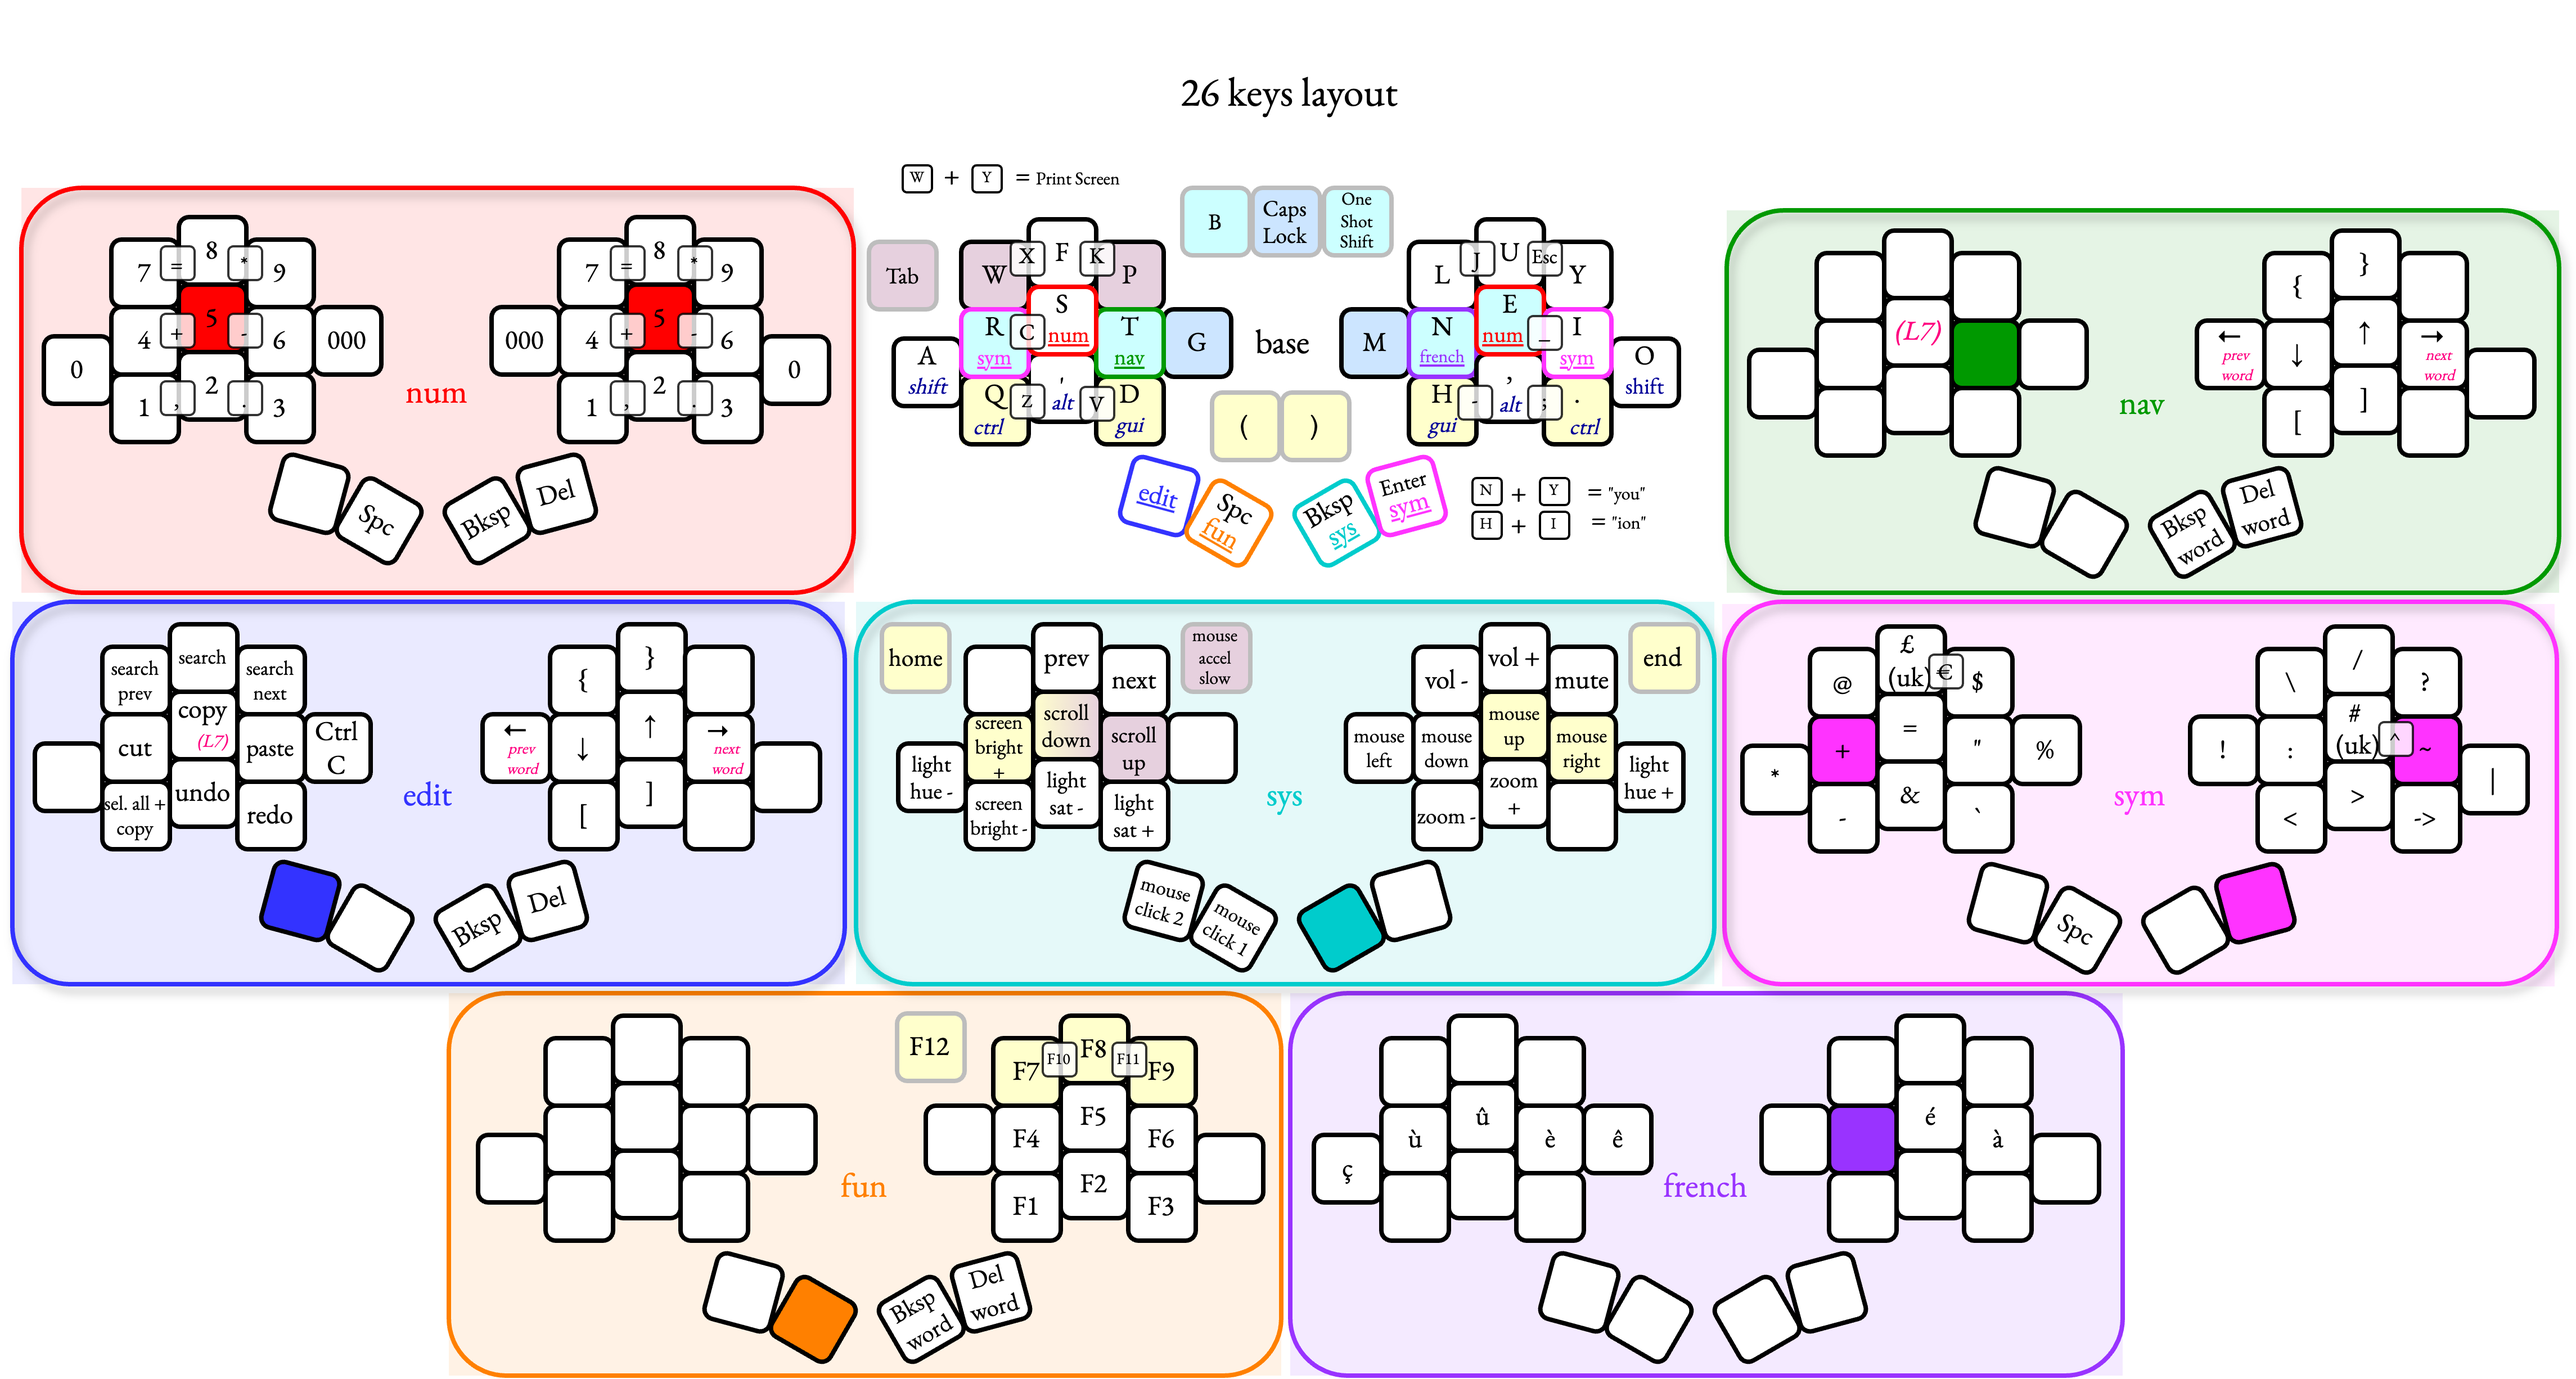
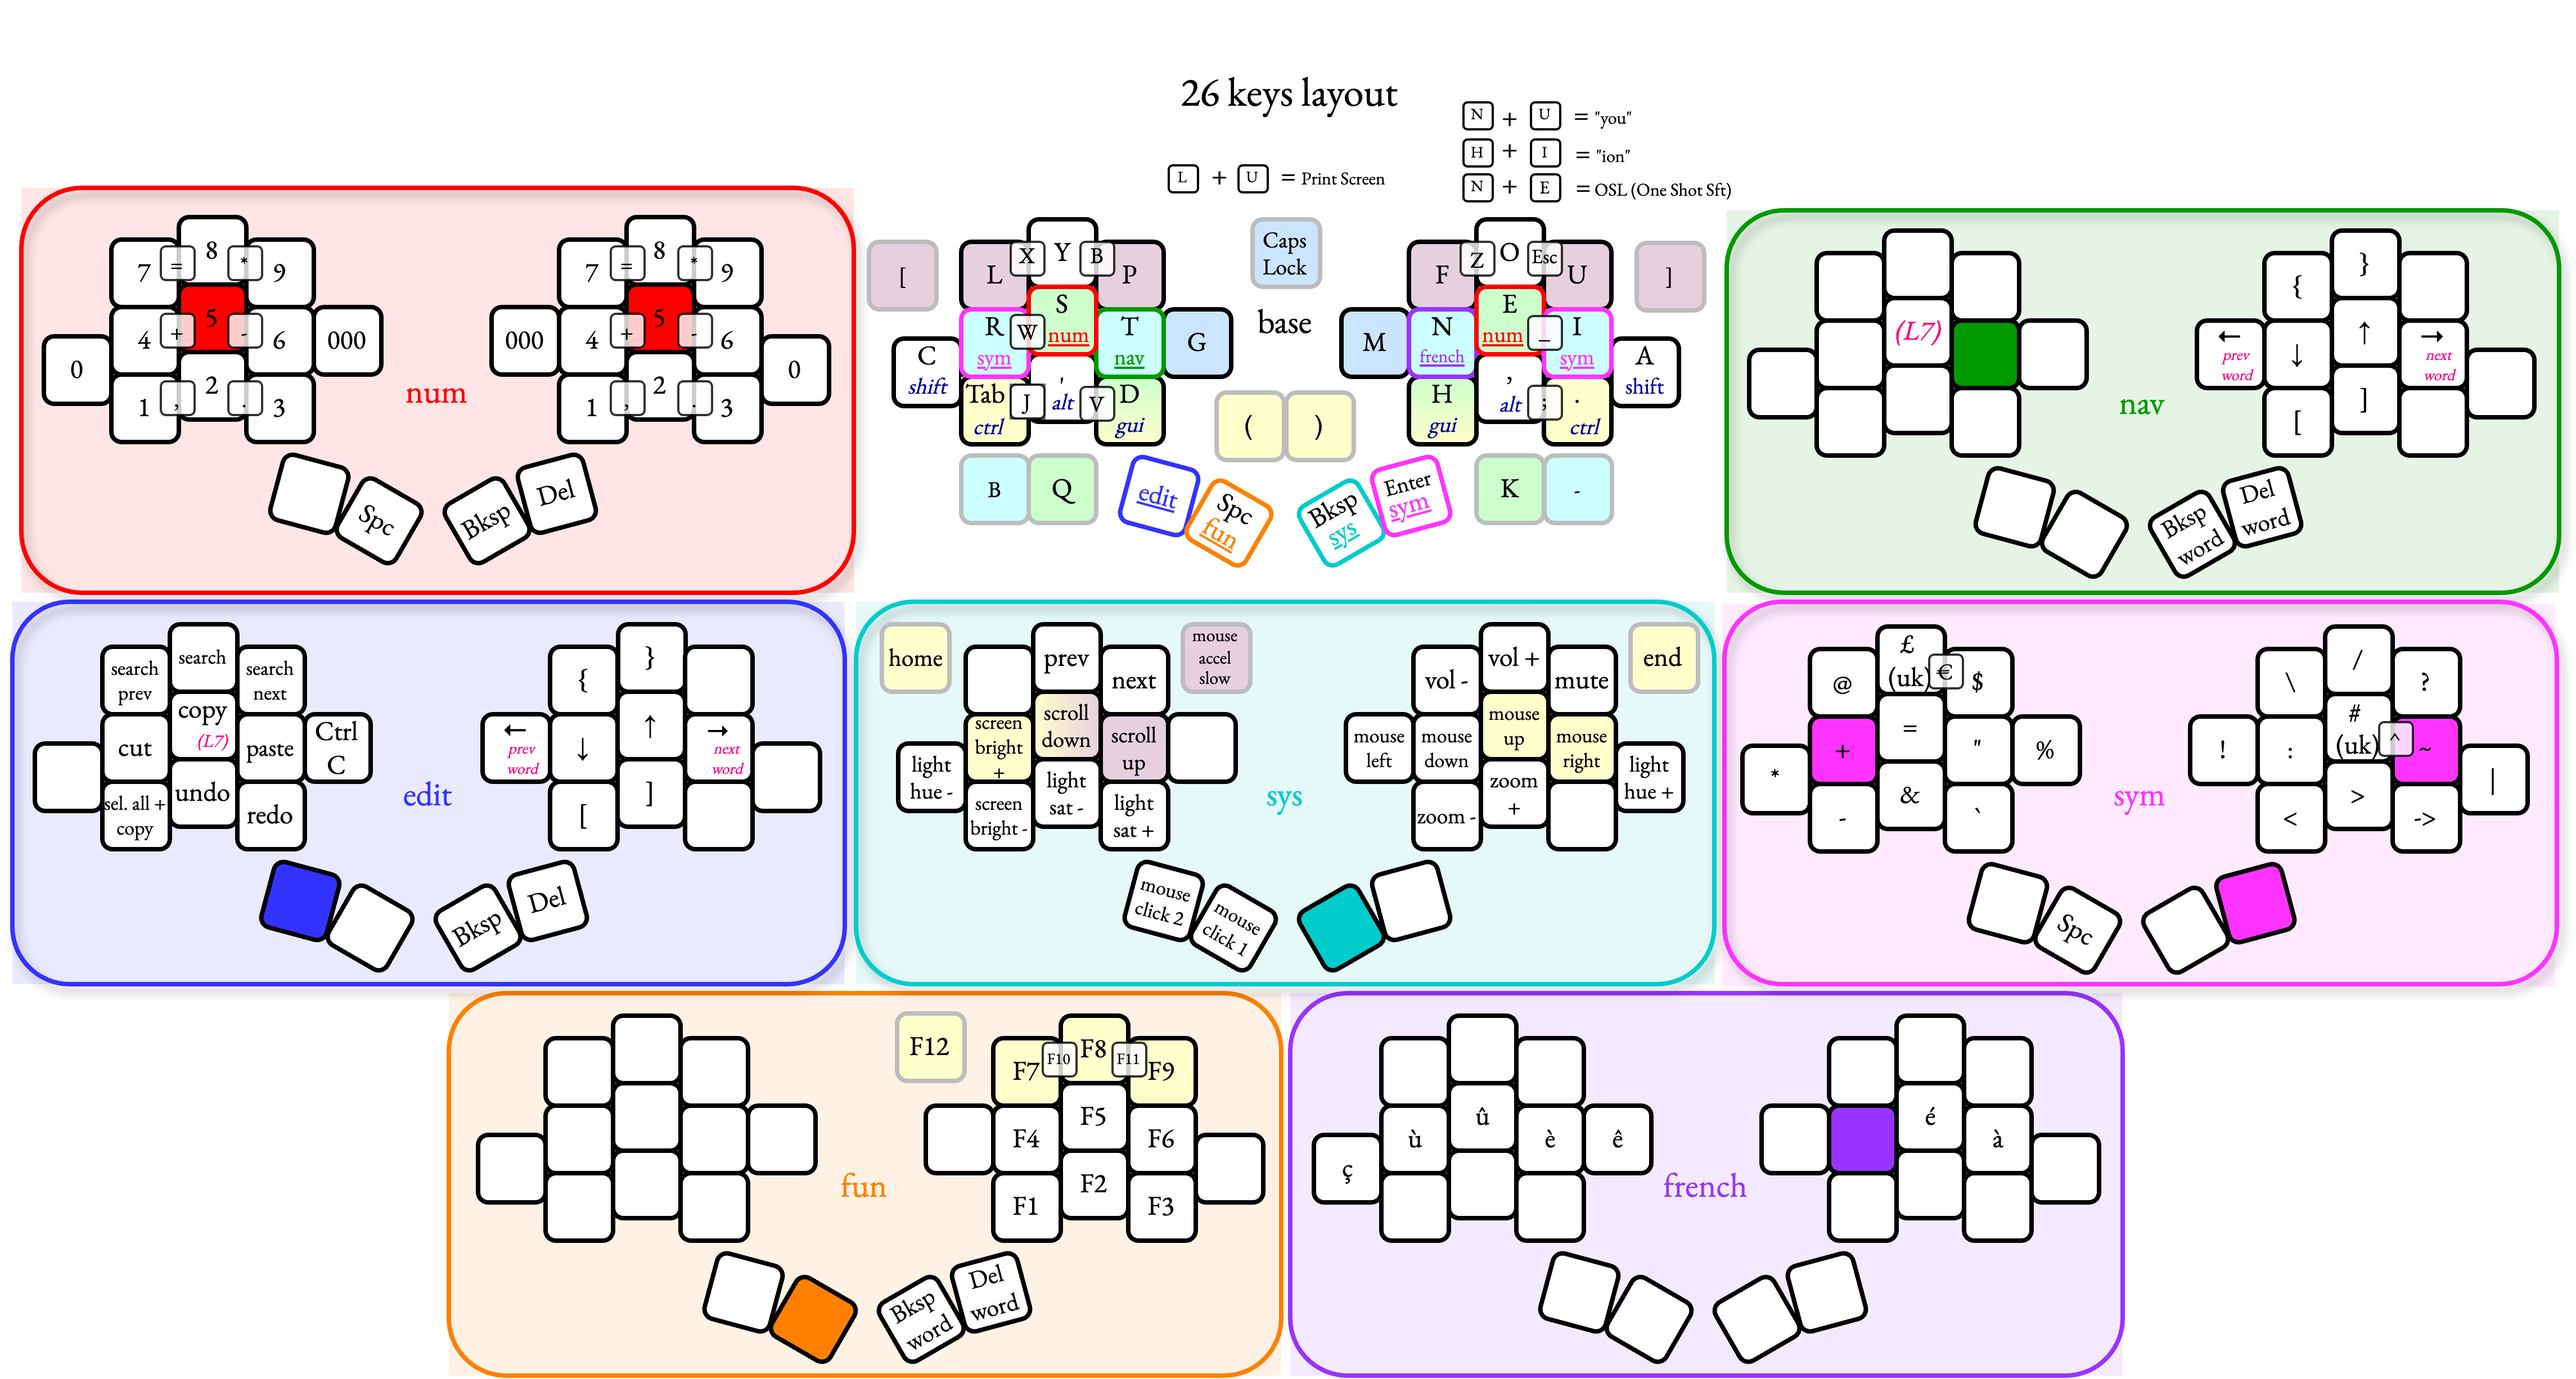
Switch to the Canary layout

Changed region(s): [[0.4371, 0.093, 0.6869, 0.4029], [0.3747, 0.279, 0.4371, 0.4029], [0.3747, 0.186, 0.4371, 0.279]]

diff --git a/README.md b/README.md
@@ -1,6 +1,6 @@
 # My keymap for 26-key keebs
 
-Colemak DH with some slight mod in order to accommodate 26 keys.
+Canary layout with some slight mod in order to accommodate my workflow and 26 keys.
 
 Highly relying on combos from the main layer. I'm currently using very light switches (Ambients Nocturnal from Kailh, 20g), which makes using combos very smooth.
 
